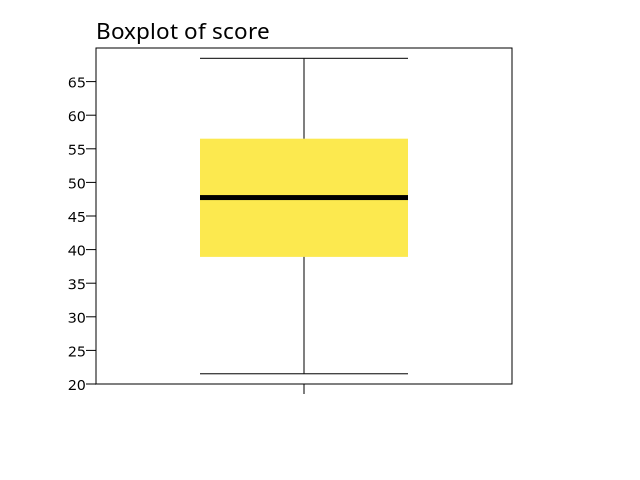
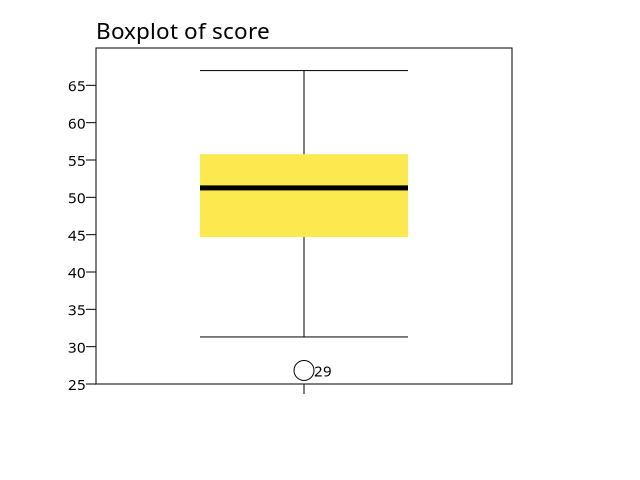
update content

diff --git a/pspp/pspp_analysis.html b/pspp/pspp_analysis.html
@@ -569,6 +569,8 @@ its output. A small p-value indicates the variable is not normally
 distributed.</p>
 
 <pre>
+SET SEED = 1234567.
+
 INPUT PROGRAM.
     LOOP #i = 1 TO 50.
         COMPUTE score = RV.NORMAL(50, 10).
@@ -578,7 +580,7 @@ END FILE.
 END INPUT PROGRAM.
 
 EXAMINE VARIABLES = score
-  /STATISTICS = DESCRIPTIVES
+  /STATISTICS = DESCRIPTIVES EXTREME(5)
   /PLOT = ALL.
 </pre>
 <pre>
@@ -611,30 +613,30 @@ EXAMINE VARIABLES = score
 +--------------------------------------------------+---------+----------+
 |                                                  |Statistic|Std. Error|
 +--------------------------------------------------+---------+----------+
-|score Mean                                        |    50.22|      1.34|
+|score Mean                                        |    49.95|      1.23|
 |     ---------------------------------------------+---------+----------+
-|      95% Confidence Interval for Mean Lower Bound|    47.53|          |   
-|                                       Upper Bound|    52.91|          |   
+|      95% Confidence Interval for Mean Lower Bound|    47.48|          |
+|                                       Upper Bound|    52.43|          |
 |     ---------------------------------------------+---------+----------+
-|      5% Trimmed Mean                             |    50.60|          |   
+|      5% Trimmed Mean                             |    50.21|          |
 |     ---------------------------------------------+---------+----------+
-|      Median                                      |    52.22|          |   
+|      Median                                      |    51.26|          |
 |     ---------------------------------------------+---------+----------+
-|      Variance                                    |    89.49|          |   
+|      Variance                                    |    75.85|          |
 |     ---------------------------------------------+---------+----------+
-|      Std. Deviation                              |     9.46|          |   
+|      Std. Deviation                              |     8.71|          |
 |     ---------------------------------------------+---------+----------+
-|      Minimum                                     |    22.93|          |   
+|      Minimum                                     |    26.81|          |
 |     ---------------------------------------------+---------+----------+
-|      Maximum                                     |    68.30|          |   
+|      Maximum                                     |    66.98|          |
 |     ---------------------------------------------+---------+----------+
-|      Range                                       |    45.38|          |   
+|      Range                                       |    40.16|          |
 |     ---------------------------------------------+---------+----------+
-|      Interquartile Range                         |    11.41|          |   
+|      Interquartile Range                         |    11.25|          |
 |     ---------------------------------------------+---------+----------+
-|      Skewness                                    |     -.69|       .34|
+|      Skewness                                    |     -.51|       .34|
 |     ---------------------------------------------+---------+----------+
-|      Kurtosis                                    |      .44|       .66|
+|      Kurtosis                                    |      .21|       .66|
 +--------------------------------------------------+---------+----------+
 
     Tests of Normality
@@ -643,7 +645,7 @@ EXAMINE VARIABLES = score
 |     +---------+--+----+
 |     |Statistic|df|Sig.|
 +-----+---------+--+----+
-|score|      .97|50| .19|
+|score|      .98|50| .42|
 +-----+---------+--+----+
 </pre>
 
@@ -1006,7 +1008,7 @@ list</a></p>
 </a>
 </p>
 <p style="font-size:80%;">
-Last Modified: Tue Oct 20 09:17:35 EDT 2026
+Last Modified: Sat Oct 24 22:01:42 EDT 2026
 </footer>
 </blockquote>
 </main>

diff --git a/pspp/pspp_analysis2.html b/pspp/pspp_analysis2.html
@@ -1141,15 +1141,22 @@ Reading 1 record from `auto-mpg2.data'.
 |Total     |      23818.99|391|           |      |    |
 +----------+--------------+---+-----------+------+----+
 
+
                                Coefficients (mpg)
 +------------+------------------+----------------+-----+----+-----------------+
 |            |  Unstandardized  |  Standardized  |     |    |   Collinearity  |
 |            |   Coefficients   |  Coefficients  |     |    |    Statistics   |
 |            +--------+---------+----------------+     |    +----------+------+
 |            |        |   Std.  |                |     |    |          |      |
+|            |    B   |  Error  |      Beta      |  t                                Coefficients (mpg)
++------------+------------------+----------------+-----+----+-----------------+
+|            |  Unstandardized  |  Standardized  |     |    |   Collinearity  |
+|            |   Coefficients   |  Coefficients  |     |    |    Statistics   |   
+|            +--------+---------+----------------+     |    +----------+------+
+|            |        |   Std.  |                |     |    |          |      |   
 |            |    B   |  Error  |      Beta      |  t  |Sig.| Tolerance|  VIF |
 +------------+--------+---------+----------------+-----+----+----------+------+
-|(Constant)  |  -17.22|     4.64|             .00|-3.71|.000|          |      |
+|(Constant)  |  -17.22|     4.64|                |-3.71|.000|          |      |   
 |cylinders   |    -.49|      .32|            -.11|-1.53|.128|       .09| 10.74|
 |displacement|     .02|      .01|             .27| 2.65|.008|       .05| 21.84|
 |horsepower  |    -.02|      .01|            -.08|-1.23|.220|       .10|  9.94|
@@ -1157,7 +1164,7 @@ Reading 1 record from `auto-mpg2.data'.
 |acceleration|     .08|      .10|             .03|  .82|.415|       .38|  2.63|
 |modelyear   |     .75|      .05|             .35|14.73|.000|       .80|  1.24|
 |origin      |    1.43|      .28|             .15| 5.13|.000|       .56|  1.77|
-+------------+--------+---------+----------------+-----+----+----------+------+
++------------+--------+---------+----------------+-----+----+----------+------+ 
 </pre>
 
 <p>Ordinary least squares regression is a BLUE (best linear unbiased)
@@ -1365,7 +1372,7 @@ list</a></p>
 </a>
 </p>
 <p style="font-size:80%;">
-Last Modified: Sun Oct 18 21:17:04 EDT 2026
+Last Modified: Sat Oct 24 21:12:08 EDT 2026
 </footer>
 </blockquote>
 </main>
